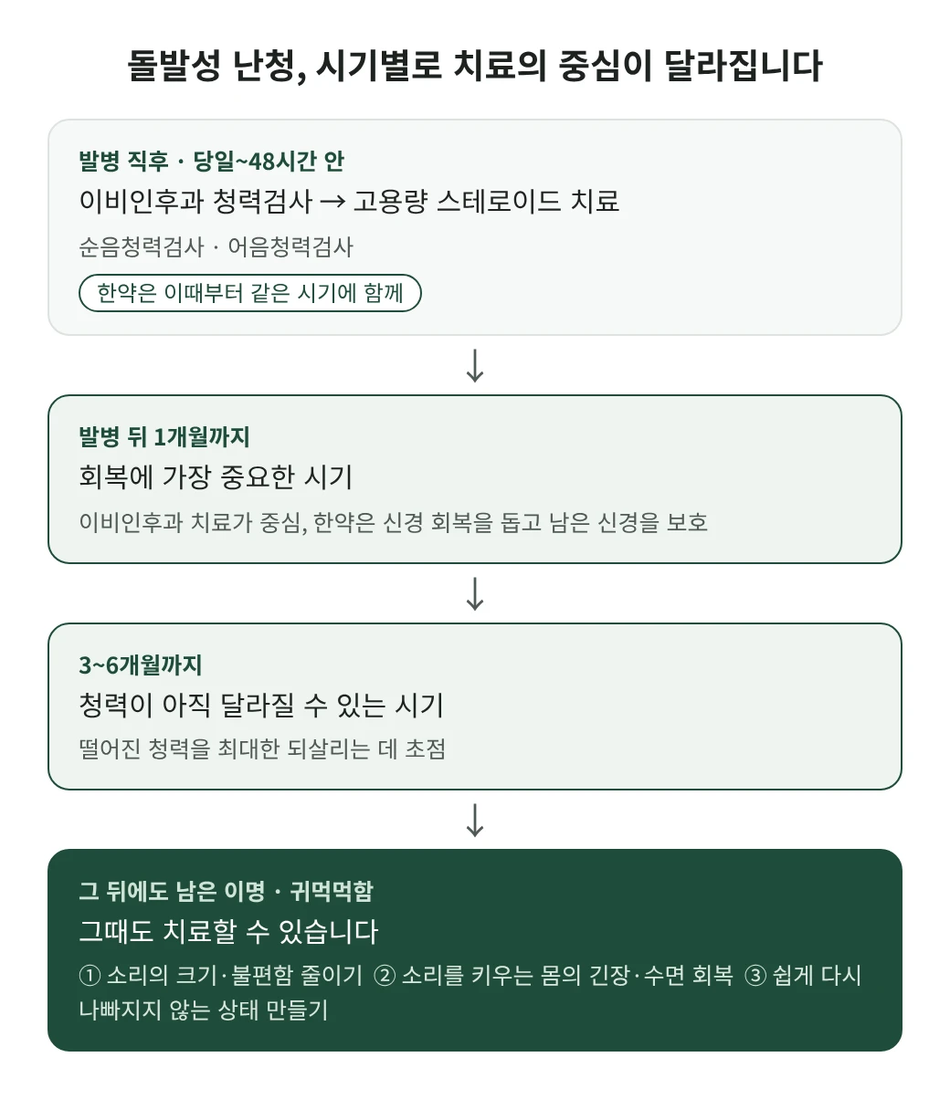
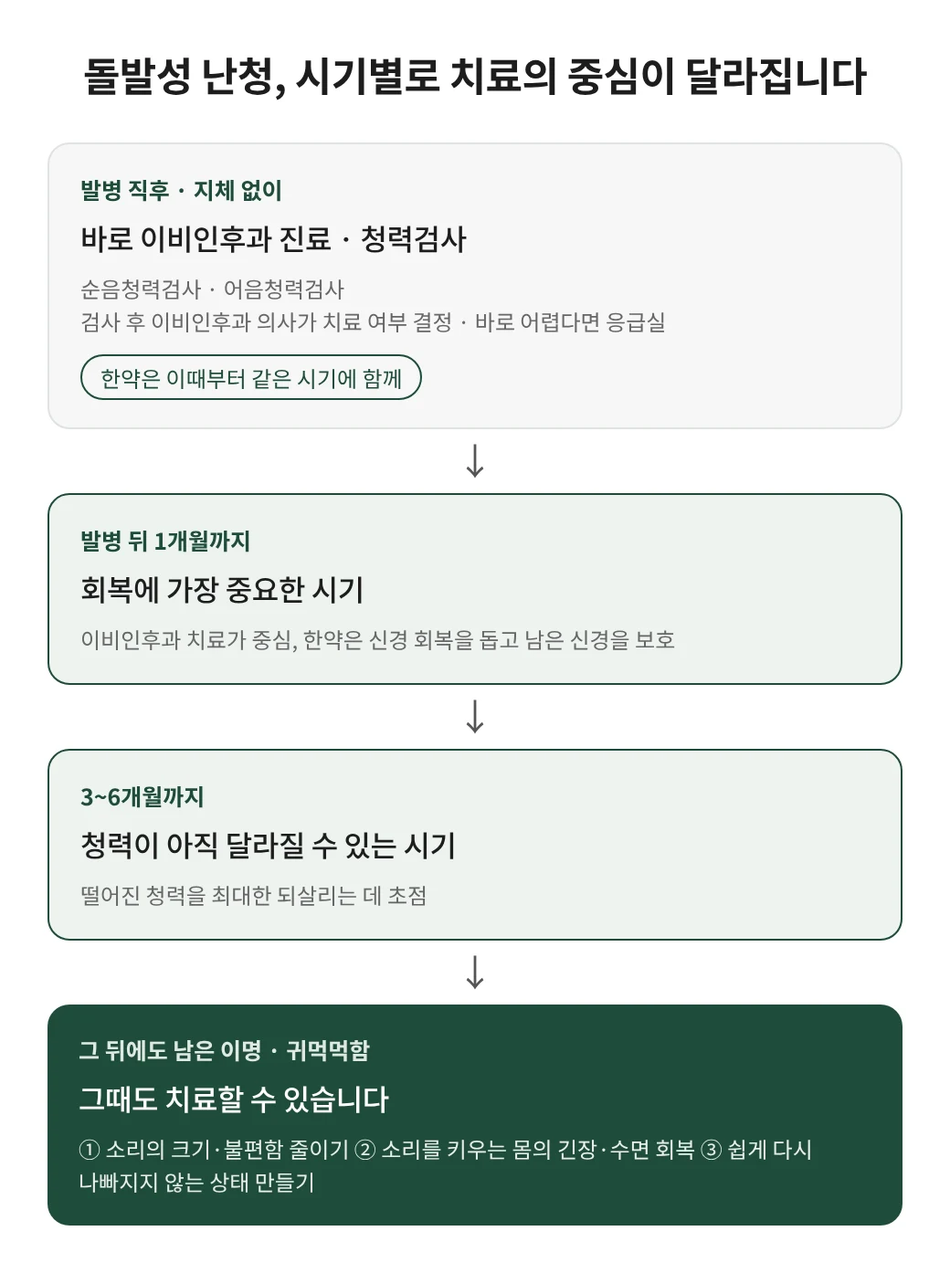
돌발성 난청 의심 시 진료 시기 안내 고치기: '24~48시간' → 지체 없이 이비인후과·응급실
- 귀먹먹함 글: 원장님 문구대로 첫머리·중간 제목·본문·하단 경고 수정 (만성 귀먹먹함 설명은 그대로)
- 이명 글 12편과 site.config.json(설명·리드·FAQ 스키마, llms.txt): '당일, 늦어도 24~48시간' 표현 통일
- 스테로이드 치료를 시작하라고 단정한 곳은 '검사 후 이비인후과 의사가 치료 여부를 결정합니다'로
- 돌발성 난청 시기별 흐름도 이미지의 '당일~48시간·고용량 스테로이드' 문구도 새로 그림

Claude-Session: https://claude.ai/code/session_0125nJSLNWcC8iU5xQ3QMtFV

diff --git a/src/pages/tinnitus/after-sudden-hearing-loss.html b/src/pages/tinnitus/after-sudden-hearing-loss.html
@@ -2,7 +2,7 @@
     <h2 class="section-title">혹시 이런 귀 증상을 겪고 계신가요?</h2>
     <ul class="checklist">
       <li>어느 날 갑자기 한쪽 귀가 잘 안 들리고 삐- 소리가 나기 시작했다</li>
-      <li>한쪽 귀가 하루 넘게 꽉 막힌 듯 먹먹하다</li>
+      <li>한쪽 귀가 갑자기 꽉 막힌 듯 먹먹해졌다</li>
       <li>이비인후과에서 돌발성 난청 진단을 받고 스테로이드를 먹고 있다</li>
       <li>고막주사까지 맞았는데 이명과 먹먹함이 남아 있다</li>
       <li>발병 전 큰 스트레스나 쌓인 피로, 잠을 못 자는 날이 이어졌다</li>
@@ -27,7 +27,7 @@
   <section class="section">
     <h2 class="section-title">13년째 이명·돌발성 난청을 진료하며 지켜본 답</h2>
     <div class="prose">
-      <p><strong>돌발성 난청은 당일 이비인후과 스테로이드 치료가 먼저이고, 한약은 그 치료를 끝낸 뒤가 아니라 같은 시기부터 함께할 수 있습니다. 염증을 끄는 치료와, 불이 난 원인을 다스리고 상한 곳을 회복시키는 치료는 함께 가야 합니다.</strong></p>
+      <p><strong>돌발성 난청이 의심되면 바로 이비인후과 진료와 청력검사가 먼저이고, 한약은 그 치료를 끝낸 뒤가 아니라 같은 시기부터 함께할 수 있습니다. 염증을 끄는 치료와, 불이 난 원인을 다스리고 상한 곳을 회복시키는 치료는 함께 가야 합니다.</strong></p>
       <p>저는 2014년부터 이명과 귀먹먹함, 돌발성 난청을 진료해 왔습니다. 돌발성 난청은 큰 스트레스와 쌓인 피로, 수면 장애가 이어지다 청신경에 갑자기 염증이 생기는 병입니다. 그래서 귀 상태뿐 아니라 발병 전 상황과 스트레스, 잠, 피로까지 함께 보고 자율신경의 균형을 되찾도록 치료합니다.</p>
       <figure class="figure" style="max-width:480px"><img src="/images/columns/clinic-decoction-machines.webp" width="743" height="542" loading="lazy" alt="구월경희한의원 원내 탕전실에 한약을 달이는 탕전기들이 나란히 놓여 있는 사진"><figcaption>한약은 외부에 맡기지 않고 원내 탕전실에서 직접 달여, 이비인후과 치료와 같은 시기부터 함께 드실 수 있게 준비합니다.</figcaption></figure>
       <p>이비인후과 초기 치료와 한약을 함께해 좋은 결과를 본 사례들이 제 진료실에 있습니다. 한약은 언제부터 함께할 수 있는지, 왜 이명이 남는지, 한 달이 지났다면 늦은 것인지 차례로 말씀드리겠습니다.</p>
@@ -38,7 +38,7 @@
     <h2 class="section-title">돌발성 난청 치료 중인데, 한약은 언제부터 함께할 수 있나요?</h2>
     <div class="prose">
       <p><strong>이비인후과에서 스테로이드 치료를 시작하는 바로 그 시기부터 함께할 수 있습니다. 스테로이드를 다 끝낸 뒤에 받는 치료가 아니라, 같은 시기에 나란히 가는 치료로 보시면 됩니다.</strong></p>
-      <p>순서는 분명합니다. 갑자기 한쪽 귀가 먹먹하고 잘 안 들리면 당일, 늦어도 24~48시간 안에 이비인후과에서 청력검사(순음청력검사·어음청력검사)를 받고 고용량 스테로이드 치료를 시작하셔야 합니다. 돌발성 난청은 시간이 생명이라 초기에 치료를 시작할수록 회복 가능성이 높습니다.</p>
+      <p>순서는 분명합니다. 갑자기 청력이 떨어졌거나 한쪽 귀가 갑자기 먹먹해져 청력 저하가 의심되면, 하루를 기다리지 말고 바로 이비인후과 진료와 청력검사(순음청력검사·어음청력검사)를 받으세요. 바로 진료받기 어렵다면 응급실로 가세요. 스테로이드 같은 치료를 할지는 검사 후 이비인후과 의사가 결정합니다. 돌발성 난청은 시간이 생명이라 빨리 진료받을수록 회복 가능성이 높습니다.</p>
       <p>한약은 이 치료를 대신하지 않고 곁에서 돕습니다. 손상된 신경이 회복되도록 돕고 남아 있는 신경을 보호하는 것이 목표입니다.</p>
     </div>
   </section>
@@ -66,7 +66,7 @@
         <li><strong>3~6개월까지</strong> — 청력이 아직 달라질 수 있는 시기라, 떨어진 청력을 최대한 되살리는 데 초점을 둡니다.</li>
         <li><strong>그 뒤에도 남은 이명</strong> — 이명의 크기와 불편함을 줄이고, 이명을 키우는 몸의 문제를 함께 회복하고, 치료를 마친 뒤 쉽게 다시 나빠지지 않는 상태를 만드는 것을 목표로 합니다.</li>
       </ol>
-      <figure class="figure"><img src="/images/columns/tinnitus-sudden-hearing-loss-timeline.webp" width="1040" height="1204" loading="lazy" alt="돌발성 난청 시기별 치료 흐름도. 발병 직후 당일에서 48시간 안에 이비인후과 청력검사와 고용량 스테로이드 치료를 시작하고 한약은 이때부터 같은 시기에 함께한다. 발병 뒤 1개월까지는 회복에 가장 중요한 시기, 3~6개월까지는 청력이 아직 달라질 수 있는 시기, 그 뒤에도 남은 이명과 귀먹먹함은 소리 크기 줄이기, 몸의 긴장과 수면 회복, 재발하지 않는 상태 만들기를 목표로 치료할 수 있다."><figcaption>돌발성 난청은 시기에 따라 치료의 중심이 달라집니다.</figcaption></figure>
+      <figure class="figure"><img src="/images/columns/tinnitus-sudden-hearing-loss-timeline.webp" width="1040" height="1394" loading="lazy" alt="돌발성 난청 시기별 치료 흐름도. 발병 직후에는 지체 없이 이비인후과 진료와 청력검사를 받고(바로 어렵다면 응급실), 검사 후 이비인후과 의사가 치료 여부를 결정하며 한약은 이때부터 같은 시기에 함께한다. 발병 뒤 1개월까지는 회복에 가장 중요한 시기, 3~6개월까지는 청력이 아직 달라질 수 있는 시기, 그 뒤에도 남은 이명과 귀먹먹함은 소리 크기 줄이기, 몸의 긴장과 수면 회복, 재발하지 않는 상태 만들기를 목표로 치료할 수 있다."><figcaption>돌발성 난청은 시기에 따라 치료의 중심이 달라집니다.</figcaption></figure>
       <p>"평생 이렇게 살아야 하나요?"라고 물으시면 저는 "지금보다 소리가 덜 들리고, 덜 먹먹하고, 더 잘 주무실 수 있는 방법은 있습니다"라고 답합니다.</p>
     </div>
   </section>
@@ -111,7 +111,7 @@
     <aside class="alert">
       <h2>한의원보다 이비인후과·응급실이 먼저인 경우</h2>
       <ul>
-        <li>갑자기 한쪽 귀가 잘 안 들리거나 먹먹해진 지 얼마 되지 않았을 때 — 당일, 늦어도 24~48시간 안에 이비인후과에서 청력검사와 초기 치료를 받으세요. 한약은 그 치료와 같은 시기에 함께할 수 있습니다.</li>
+        <li>갑자기 한쪽 귀가 잘 안 들리거나 먹먹해진 지 얼마 되지 않았을 때 — 하루를 기다리지 말고 바로 이비인후과 진료와 청력검사를 받으세요. 바로 진료받기 어렵다면 응급실로 가세요. 한약은 그 치료와 같은 시기에 함께할 수 있습니다.</li>
         <li>이명과 함께 심한 어지럼증, 구토가 시작될 때</li>
         <li>얼굴 마비, 말이 어눌해짐, 심한 두통이 함께 있을 때</li>
         <li>치료 중에 청력이 다시 떨어지는 느낌이 들 때 — 치료하던 이비인후과에서 청력검사를 다시 받아 보세요.</li>

diff --git a/src/pages/tinnitus/ear-fullness.html b/src/pages/tinnitus/ear-fullness.html
@@ -27,7 +27,7 @@
   <section class="section">
     <h2 class="section-title">13년째 귀먹먹함을 진료하며 지켜본 답</h2>
     <div class="prose">
-      <p><strong>갑자기 시작된 한쪽 귀 먹먹함이 하루 넘게 이어진다면 돌발성 난청일 수 있어 이비인후과 청력검사가 먼저입니다. 검사가 정상이고 약을 먹어도 몇 달째 그대로라면, 몸의 긴장으로 무너진 자율신경 균형과 이관 상태를 귀와 함께 봐야 합니다.</strong></p>
+      <p><strong>갑자기 청력이 떨어졌거나 한쪽 귀가 갑자기 먹먹해져 청력 저하가 의심되면, 하루를 기다리지 말고 바로 이비인후과 진료와 청력검사를 받으세요. 바로 진료받기 어렵다면 응급실로 가세요. 검사가 정상이고 약을 먹어도 몇 달째 그대로라면, 몸의 긴장으로 무너진 자율신경 균형과 이관 상태를 귀와 함께 봐야 합니다.</strong></p>
       <p>저는 2014년부터 귀먹먹함과 이명, 돌발성 난청 환자분을 진료해 왔습니다. 구조를 보는 검사에서 이상이 없는데도 먹먹함이 계속되는 분은 자율신경검사·뇌파검사로 몸의 긴장 상태를 확인하고, 이관이 막힌 쪽인지 너무 열린 쪽인지도 가려서 치료 방향을 정합니다.</p>
       <figure class="figure" style="max-width:440px"><img src="/images/columns/director-ear-13-years.webp" width="743" height="743" loading="lazy" alt="구월경희한의원 지근성 대표원장 약력 카드. 13년째 이명·귀먹먹함·메니에르병 중점 진료, 매달 귀·신경질환 진료 600명 이상. 학력 경희대학교 한의과대학 성적우수 장학생 입학, 경희대학교 한의과대학 졸업. 학회 정회원 두 곳. 2024·2025 인천시한의사회 분회장상 수상 사진."><figcaption>이명·귀먹먹함·메니에르병을 13년째 진료하고 있습니다.</figcaption></figure>
       <p>고열을 앓은 뒤 오른쪽 귀가 수건으로 막은 듯 먹먹해졌던 40대 환자분은 45일째 먹먹함과 귀를 잡아당기는 통증이 없어졌습니다(자세한 경과는 아래 치료 사례에 있습니다). 먼저 확인할 것, 검사가 정상인데 몇 달씩 먹먹한 이유, 이관이 막힌 경우와 열린 경우를 차례로 말씀드리겠습니다.</p>
@@ -35,10 +35,10 @@
   </section>
 
   <section class="section section-tint">
-    <h2 class="section-title">먹먹함이 하루 넘게 이어진다면 무엇부터 확인해야 하나요?</h2>
+    <h2 class="section-title">한쪽 귀가 갑자기 먹먹하거나 잘 안 들리면 어떻게 해야 하나요?</h2>
     <div class="prose">
-      <p><strong>갑자기 시작된 한쪽 귀 먹먹함이 하루 넘게 이어진다면 먼저 이비인후과에서 청력검사를 받으세요. 낮은 음역의 청력이 떨어진 돌발성 난청일 수 있기 때문입니다.</strong></p>
-      <p>돌발성 난청은 당일, 늦어도 24~48시간 안에 청력검사(순음청력검사·어음청력검사)와 고용량 스테로이드 치료를 시작하는 것이 먼저입니다. 한약은 그 치료와 같은 시기부터 함께할 수 있습니다. 시기별 치료 방향은 <a href="/tinnitus/after-sudden-hearing-loss/">돌발성 난청 뒤 남은 이명, 한약은 언제 함께하나</a>에 정리해 두었습니다.</p>
+      <p><strong>갑자기 청력이 떨어졌거나 한쪽 귀가 갑자기 먹먹해져 청력 저하가 의심되면, 하루를 기다리지 말고 바로 이비인후과 진료와 청력검사를 받으세요. 바로 진료받기 어렵다면 응급실로 가세요. 낮은 음역의 청력이 떨어진 돌발성 난청일 수 있기 때문입니다.</strong></p>
+      <p>청력검사는 순음청력검사·어음청력검사로 하고, 검사 후 이비인후과 의사가 치료 여부를 결정합니다. 한약은 그 치료와 같은 시기부터 함께할 수 있습니다. 시기별 치료 방향은 <a href="/tinnitus/after-sudden-hearing-loss/">돌발성 난청 뒤 남은 이명, 한약은 언제 함께하나</a>에 정리해 두었습니다.</p>
       <p>고개를 돌리지 않았는데도 TV를 보거나 일하다가 빙글빙글 도는 어지럼이 찾아오고, 그때마다 귀가 먹먹하다면 메니에르병을 의심해 봐야 합니다. 어지럼이 함께 있다면 <a href="/dizziness/">어지럼증 진료 안내</a>도 참고해 주세요.</p>
     </div>
   </section>
@@ -110,7 +110,7 @@
     <aside class="alert">
       <h2>한의원보다 이비인후과·응급실이 먼저인 경우</h2>
       <ul>
-        <li>갑자기 한쪽 귀가 먹먹하거나 잘 안 들린 지 얼마 되지 않았을 때 — 당일, 늦어도 24~48시간 안에 이비인후과에서 청력검사를 받으세요.</li>
+        <li>갑자기 청력이 떨어졌거나 한쪽 귀가 갑자기 먹먹해져 청력 저하가 의심될 때 — 하루를 기다리지 말고 바로 이비인후과 진료와 청력검사를 받으세요. 바로 진료받기 어렵다면 응급실로 가세요.</li>
         <li>먹먹함과 함께 심한 어지럼증, 구토가 시작될 때</li>
         <li>귀에서 고름이나 진물이 나오거나, 열과 함께 귀가 심하게 아플 때</li>
         <li>얼굴 마비, 말이 어눌해짐, 심한 두통이 함께 있을 때</li>

diff --git a/src/pages/tinnitus/noise-induced.html b/src/pages/tinnitus/noise-induced.html
@@ -15,7 +15,7 @@
         <img src="/images/columns/tinnitus-hair-cell-frequency.webp" alt="달팽이관 모식도. 입구 쪽 유모세포는 높은 소리, 안쪽 끝 유모세포는 낮은 소리를 맡으며, 입구 쪽 유모세포가 손상되면 높은 소리 청력이 떨어지고 삐 하는 이명이 생길 수 있음을 보여 주는 그림" width="743" height="668" loading="lazy">
         <figcaption>높은 소리를 맡는 달팽이관 입구 쪽 유모세포가 상하면, 그 주파수가 '삐-' 하는 이명으로 들릴 수 있습니다. (대표원장 직접 제작)</figcaption>
       </figure>
-      <p>큰 소리를 들은 뒤 한쪽 귀가 갑자기 잘 안 들리거나 꽉 막힌 듯 먹먹해졌다면 시간이 가장 중요합니다. 당일, 늦어도 24~48시간 안에 이비인후과에서 청력검사와 초기 치료를 받으세요. 한약은 그 치료와 같은 시기에 함께할 수 있습니다. 자세한 내용은 <a href="/tinnitus/after-sudden-hearing-loss/">돌발성 난청 뒤 남은 이명</a>에 있습니다.</p>
+      <p>큰 소리를 들은 뒤 한쪽 귀가 갑자기 잘 안 들리거나 꽉 막힌 듯 먹먹해졌다면 시간이 가장 중요합니다. 하루를 기다리지 말고 바로 이비인후과 진료와 청력검사를 받으세요. 바로 진료받기 어렵다면 응급실로 가세요. 한약은 그 치료와 같은 시기에 함께할 수 있습니다. 자세한 내용은 <a href="/tinnitus/after-sudden-hearing-loss/">돌발성 난청 뒤 남은 이명</a>에 있습니다.</p>
       <p>생긴 지 6개월이 지난 소음성 난청과 이명은 처음부터 솔직하게 말씀드립니다. 학회 보고로도 돌발성 난청에 비해 회복률이 절반 정도라, 소리를 완전히 없애기보다 크기와 불편, 잠을 줄이는 것을 목표로 잡습니다. 떨어진 청력이 돌아올 수 있는지는 <a href="/tinnitus/with-hearing-loss/">이명과 난청이 같이 있다면, 청력도 돌아올 수 있을까요?</a>에 따로 적었습니다.</p>
     </div>
   </section>
@@ -82,7 +82,7 @@
     <aside class="alert">
       <h2>한의원보다 이비인후과·응급실이 먼저인 경우</h2>
       <ul>
-        <li>큰 소리를 들은 뒤 한쪽 귀가 갑자기 잘 안 들리거나 먹먹해졌을 때 — 당일, 늦어도 24~48시간 안에 이비인후과에서 청력검사와 초기 치료를 받으세요. 한약은 그 치료와 함께할 수 있습니다.</li>
+        <li>큰 소리를 들은 뒤 한쪽 귀가 갑자기 잘 안 들리거나 먹먹해졌을 때 — 하루를 기다리지 말고 바로 이비인후과 진료와 청력검사를 받으세요. 바로 진료받기 어렵다면 응급실로 가세요. 한약은 그 치료와 함께할 수 있습니다.</li>
         <li>원래 있던 난청이 짧은 기간에 눈에 띄게 더 나빠졌을 때, 한쪽에서만 이명이 계속되거나 심장 박동에 맞춰 쿵쿵 울릴 때 — 이비인후과 정밀검사를 먼저 받아 보세요. <a href="/tinnitus/one-sided/">한쪽 귀에서만 들리는 이명</a>에 자세히 적었습니다.</li>
         <li>이명과 함께 심한 어지럼과 구토가 시작됐을 때, 얼굴 마비·말이 어눌해짐·한쪽 팔다리에 힘이 빠짐·심한 두통이 함께 있을 때 — 바로 응급실로 가세요.</li>
       </ul>

diff --git a/src/pages/tinnitus/where-to-go.html b/src/pages/tinnitus/where-to-go.html
@@ -11,7 +11,7 @@
     <h2 class="section-title">이명이 처음 생겼다면 어디부터 가야 하나요?</h2>
     <div class="prose">
       <p><strong>이비인후과에서 청력검사부터 받으세요. 이명이 혼자 온 것인지, 돌발성 난청처럼 서둘러 치료해야 하는 병의 신호인지를 먼저 가려야 하기 때문입니다.</strong></p>
-      <p>청신경에 생긴 종양, 중이염, 경동맥이 좁아져 생기는 박동성 이명처럼 원인이 분명한 이명은 그 원인을 치료하는 것이 먼저입니다. 특히 한쪽 귀가 갑자기 잘 안 들리면서 이명이 생겼다면 당일, 늦어도 24~48시간 안에 이비인후과 진료를 받으셔야 합니다. 한약은 그 치료와 같은 시기에 함께할 수 있으며, 자세한 내용은 <a href="/tinnitus/after-sudden-hearing-loss/">돌발성 난청 뒤 남은 이명</a>에 있습니다.</p>
+      <p>청신경에 생긴 종양, 중이염, 경동맥이 좁아져 생기는 박동성 이명처럼 원인이 분명한 이명은 그 원인을 치료하는 것이 먼저입니다. 특히 한쪽 귀가 갑자기 잘 안 들리면서 이명이 생겼다면 하루를 기다리지 말고 바로 이비인후과 진료와 청력검사를 받으셔야 합니다. 바로 진료받기 어렵다면 응급실로 가세요. 한약은 그 치료와 같은 시기에 함께할 수 있으며, 자세한 내용은 <a href="/tinnitus/after-sudden-hearing-loss/">돌발성 난청 뒤 남은 이명</a>에 있습니다.</p>
       <figure class="figure" style="max-width:520px">
         <img src="/images/columns/tinnitus-audiogram-example.webp" alt="청력검사 결과 예시 그래프. 20dB까지가 정상 범위이고, 높은 소리 구간의 청력이 떨어지면 삐 하는 높은 이명이 생길 수 있음을 표시" width="743" height="672" loading="lazy">
         <figcaption>청력검사 결과지는 이명이 혼자 온 것인지, 청력 저하와 함께 온 것인지를 가르는 첫 자료입니다. (대표원장 직접 제작)</figcaption>
@@ -84,7 +84,7 @@
     <aside class="alert">
       <h2>한의원보다 이비인후과·응급실이 먼저인 경우</h2>
       <ul>
-        <li>한쪽 귀가 갑자기 잘 안 들리거나 꽉 막힌 듯 먹먹해졌을 때 — 당일, 늦어도 24~48시간 안에 이비인후과에서 청력검사와 초기 치료를 받으세요. 한약은 그 치료와 함께할 수 있습니다.</li>
+        <li>한쪽 귀가 갑자기 잘 안 들리거나 꽉 막힌 듯 먹먹해졌을 때 — 하루를 기다리지 말고 바로 이비인후과 진료와 청력검사를 받으세요. 바로 진료받기 어렵다면 응급실로 가세요. 한약은 그 치료와 함께할 수 있습니다.</li>
         <li>한쪽에서만 이명이 계속되거나 그쪽 청력이 떨어질 때, 심장 박동에 맞춰 쿵쿵 울릴 때 — 이비인후과 정밀검사를 먼저 받아 보세요.</li>
         <li>귀에서 고름이나 진물이 나오거나 귀가 아플 때 — 이비인후과 진료가 먼저입니다.</li>
         <li>이명과 함께 심한 어지럼과 구토가 시작됐을 때, 얼굴 마비·말이 어눌해짐·한쪽 팔다리에 힘이 빠짐·심한 두통이 함께 있을 때 — 바로 응급실로 가세요.</li>

diff --git a/src/pages/tinnitus/with-hearing-loss.html b/src/pages/tinnitus/with-hearing-loss.html
@@ -25,7 +25,7 @@
     <div class="prose">
       <p><strong>난청의 종류와 시간이 얼마나 지났는지에 따라 다릅니다. 갑자기 생긴 난청은 초기에 치료할수록 회복 가능성이 높고, 6개월 넘게 지난 소음성 난청은 완전히 되돌리기 어려울 수 있어 처음부터 그렇게 말씀드립니다.</strong></p>
       <ul class="points">
-        <li><strong>갑자기 한쪽 귀가 안 들리게 된 경우(돌발성 난청)</strong> — 시간이 가장 중요합니다. 당일, 늦어도 24~48시간 안에 이비인후과에서 청력검사와 스테로이드 치료를 시작하세요. 한약은 그 치료가 끝난 뒤가 아니라 같은 시기에 함께할 수 있습니다. 자세한 내용은 <a href="/tinnitus/after-sudden-hearing-loss/">돌발성 난청 뒤 남은 이명</a>에 있습니다.</li>
+        <li><strong>갑자기 한쪽 귀가 안 들리게 된 경우(돌발성 난청)</strong> — 시간이 가장 중요합니다. 하루를 기다리지 말고 바로 이비인후과 진료와 청력검사를 받으세요. 바로 진료받기 어렵다면 응급실로 가세요. 검사 후 이비인후과 의사가 치료 여부를 결정합니다. 한약은 그 치료가 끝난 뒤가 아니라 같은 시기에 함께할 수 있습니다. 자세한 내용은 <a href="/tinnitus/after-sudden-hearing-loss/">돌발성 난청 뒤 남은 이명</a>에 있습니다.</li>
         <li><strong>소음에 오래 노출돼 생긴 난청(소음성 난청)</strong> — 원인이 되는 소음을 줄이는 것이 먼저입니다. 생긴 지 6개월이 지난 소음성 난청과 이명은 완전히 없애기보다 증상을 줄이는 것을 목표로 잡습니다.</li>
         <li><strong>청력검사에서 '정상'이지만 20dB 가까이 나온 경우</strong> — 정상 범위 안이어도 경도 난청과의 경계라, 조금 떨어진 청력 때문에 이명이 생겼을 수 있습니다.</li>
       </ul>
@@ -95,7 +95,7 @@
     <aside class="alert">
       <h2>한의원보다 이비인후과·응급실이 먼저인 경우</h2>
       <ul>
-        <li>한쪽 귀가 갑자기 잘 안 들리거나 먹먹해졌을 때 — 돌발성 난청일 수 있어 당일, 늦어도 24~48시간 안에 이비인후과에서 청력검사와 초기 치료를 받으세요. 한약은 그 치료와 함께할 수 있습니다.</li>
+        <li>한쪽 귀가 갑자기 잘 안 들리거나 먹먹해졌을 때 — 돌발성 난청일 수 있어 하루를 기다리지 말고 바로 이비인후과 진료와 청력검사를 받으세요. 바로 진료받기 어렵다면 응급실로 가세요. 한약은 그 치료와 함께할 수 있습니다.</li>
         <li>원래 있던 난청이 짧은 기간에 눈에 띄게 더 나빠졌을 때, 한쪽에서만 이명이 계속되거나 심장 박동에 맞춰 쿵쿵 울릴 때 — 이비인후과 정밀검사를 먼저 받아 보세요. <a href="/tinnitus/one-sided/">한쪽 귀에서만 들리는 이명</a>에 자세히 적었습니다.</li>
         <li>이명과 함께 심한 어지럼과 구토가 시작됐을 때, 얼굴 마비·말이 어눌해짐·심한 두통이 함께 있을 때</li>
       </ul>

diff --git a/src/pages/tinnitus/after-illness.html b/src/pages/tinnitus/after-illness.html
@@ -74,7 +74,7 @@
     <div class="prose">
       <p><strong>돌발성 난청일 수 있으니 그날 바로 이비인후과에서 청력검사와 치료를 받으세요. 이명보다 청력이 먼저입니다.</strong></p>
       <p>돌발성 난청은 큰 스트레스와 쌓인 피로, 수면 장애가 이어지다 청신경에 갑자기 염증이 생기는 병이라, 청력 저하와 함께 귀먹먹함과 이명이 같이 옵니다. 이비인후과의 스테로이드 치료는 불난 곳의 불을 끄는 꼭 필요한 치료이고, 한약은 그 시기부터 함께해 불이 난 원인과 상한 곳의 회복을 돕습니다.</p>
-      <figure class="figure" style="max-width:480px"><img src="/images/columns/tinnitus-sudden-hearing-loss-timeline.webp" width="1040" height="1204" loading="lazy" alt="돌발성 난청 시기별 치료 흐름도. 발병 직후 당일에서 48시간 안에 이비인후과 청력검사와 고용량 스테로이드 치료를 시작하고 한약은 이때부터 같은 시기에 함께한다. 발병 뒤 1개월까지는 회복에 가장 중요한 시기, 3~6개월까지는 청력이 아직 달라질 수 있는 시기, 그 뒤에도 남은 이명과 귀먹먹함을 치료하는 시기로 이어진다."><figcaption>돌발성 난청은 시기마다 할 일이 다릅니다. 당일 이비인후과 치료가 먼저이고, 한약은 그때부터 함께할 수 있습니다.</figcaption></figure>
+      <figure class="figure" style="max-width:480px"><img src="/images/columns/tinnitus-sudden-hearing-loss-timeline.webp" width="1040" height="1394" loading="lazy" alt="돌발성 난청 시기별 치료 흐름도. 발병 직후에는 지체 없이 이비인후과 진료와 청력검사를 받고(바로 어렵다면 응급실), 검사 후 이비인후과 의사가 치료 여부를 결정하며 한약은 이때부터 같은 시기에 함께한다. 발병 뒤 1개월까지는 회복에 가장 중요한 시기, 3~6개월까지는 청력이 아직 달라질 수 있는 시기, 그 뒤에도 남은 이명과 귀먹먹함을 치료하는 시기로 이어진다."><figcaption>돌발성 난청은 시기마다 할 일이 다릅니다. 바로 이비인후과 진료와 청력검사가 먼저이고, 한약은 그때부터 함께할 수 있습니다.</figcaption></figure>
       <p>자세한 내용은 <a href="/tinnitus/after-sudden-hearing-loss/">돌발성 난청 뒤 남은 이명, 한약은 언제 함께할 수 있을까요?</a>에 있습니다.</p>
     </div>
   </section>

diff --git a/src/pages/tinnitus/elderly.html b/src/pages/tinnitus/elderly.html
@@ -91,7 +91,7 @@
     <aside class="alert">
       <h2>한의원보다 이비인후과·응급실이 먼저인 경우</h2>
       <ul>
-        <li>한쪽 귀가 갑자기 잘 안 들리거나 먹먹해졌을 때 — 돌발성 난청일 수 있어 당일, 늦어도 24~48시간 안에 이비인후과에서 청력검사와 초기 치료를 받으세요. 한약은 그 치료와 함께할 수 있습니다. <a href="/tinnitus/after-sudden-hearing-loss/">돌발성 난청 뒤 남은 이명</a>을 참고해 주세요.</li>
+        <li>한쪽 귀가 갑자기 잘 안 들리거나 먹먹해졌을 때 — 돌발성 난청일 수 있어 하루를 기다리지 말고 바로 이비인후과 진료와 청력검사를 받으세요. 바로 진료받기 어렵다면 응급실로 가세요. 한약은 그 치료와 함께할 수 있습니다. <a href="/tinnitus/after-sudden-hearing-loss/">돌발성 난청 뒤 남은 이명</a>을 참고해 주세요.</li>
         <li>한쪽에서만 이명이 계속되거나 그쪽 청력이 떨어질 때, 심장 박동에 맞춰 쿵쿵 울릴 때 — 이비인후과 정밀검사를 먼저 받아 보세요. <a href="/tinnitus/one-sided/">한쪽 귀에서만 들리는 이명</a>에 자세히 적었습니다.</li>
         <li>이명과 함께 심한 어지럼과 구토가 시작됐을 때, 얼굴 마비·말이 어눌해짐·한쪽 팔다리에 힘이 빠짐·심한 두통이 함께 있을 때 — 바로 응급실로 가세요.</li>
       </ul>

diff --git a/src/pages/tinnitus/first-visit.html b/src/pages/tinnitus/first-visit.html
@@ -97,7 +97,7 @@
     <aside class="alert">
       <h2>한의원 초진보다 이비인후과·응급실이 먼저인 경우</h2>
       <ul>
-        <li>한쪽 귀가 갑자기 잘 안 들리거나 먹먹해졌을 때 — 돌발성 난청일 수 있어 당일, 늦어도 24~48시간 안에 이비인후과에서 청력검사와 초기 치료를 받으세요. 한약은 그 치료와 함께할 수 있습니다. <a href="/tinnitus/after-sudden-hearing-loss/">돌발성 난청 뒤 남은 이명</a>을 참고해 주세요.</li>
+        <li>한쪽 귀가 갑자기 잘 안 들리거나 먹먹해졌을 때 — 돌발성 난청일 수 있어 하루를 기다리지 말고 바로 이비인후과 진료와 청력검사를 받으세요. 바로 진료받기 어렵다면 응급실로 가세요. 한약은 그 치료와 함께할 수 있습니다. <a href="/tinnitus/after-sudden-hearing-loss/">돌발성 난청 뒤 남은 이명</a>을 참고해 주세요.</li>
         <li>한쪽에서만 이명이 계속되거나 그쪽 청력이 떨어질 때, 심장 박동에 맞춰 쿵쿵 울릴 때 — 이비인후과 정밀검사를 먼저 받아 보세요. <a href="/tinnitus/one-sided/">한쪽 귀에서만 들리는 이명</a>에 자세히 적었습니다.</li>
         <li>이명과 함께 심한 어지럼과 구토가 시작됐을 때, 얼굴 마비·말이 어눌해짐·심한 두통이 함께 있을 때</li>
       </ul>

diff --git a/src/pages/tinnitus/with-dizziness.html b/src/pages/tinnitus/with-dizziness.html
@@ -92,7 +92,7 @@
     <aside class="alert">
       <h2>한의원보다 이비인후과·응급실이 먼저인 경우</h2>
       <ul>
-        <li>한쪽 귀가 갑자기 잘 안 들리거나 먹먹해지면서 이명·어지럼이 시작됐을 때 — 돌발성 난청일 수 있어 당일, 늦어도 24~48시간 안에 이비인후과에서 청력검사와 초기 치료를 받으세요.</li>
+        <li>한쪽 귀가 갑자기 잘 안 들리거나 먹먹해지면서 이명·어지럼이 시작됐을 때 — 돌발성 난청일 수 있어 하루를 기다리지 말고 바로 이비인후과 진료와 청력검사를 받으세요. 바로 진료받기 어렵다면 응급실로 가세요.</li>
         <li>심한 어지럼과 구토가 처음 시작돼 가라앉지 않을 때</li>
         <li>어지럼과 함께 얼굴 마비, 말이 어눌해짐, 팔다리 힘 빠짐, 물체가 둘로 보임, 걷기 어려움, 심한 두통이 있을 때 — 뇌 쪽 원인일 수 있어 바로 응급실로 가셔야 합니다.</li>
         <li>어지럼이 반복되면서 한쪽 청력이 점점 떨어질 때 — 이비인후과 정밀검사를 먼저 받아 보세요.</li>

diff --git a/src/pages/tinnitus/one-sided.html b/src/pages/tinnitus/one-sided.html
@@ -80,7 +80,7 @@
     <aside class="alert">
       <h2>한의원보다 이비인후과·응급실이 먼저인 경우</h2>
       <ul>
-        <li>한쪽 귀가 갑자기 잘 안 들리거나 먹먹해졌을 때 — 돌발성 난청일 수 있어 당일, 늦어도 24~48시간 안에 이비인후과에서 청력검사와 초기 치료를 받으세요. 한약은 그 치료와 같은 시기에 함께할 수 있습니다.</li>
+        <li>한쪽 귀가 갑자기 잘 안 들리거나 먹먹해졌을 때 — 돌발성 난청일 수 있어 하루를 기다리지 말고 바로 이비인후과 진료와 청력검사를 받으세요. 바로 진료받기 어렵다면 응급실로 가세요. 한약은 그 치료와 같은 시기에 함께할 수 있습니다.</li>
         <li>한쪽 이명과 함께 그쪽 청력이 점점 떨어질 때 — 이비인후과에서 정밀검사를 먼저 받아 보세요.</li>
         <li>심장 박동에 맞춰 쿵쿵 울리는 소리가 한쪽에서 계속될 때 — 혈관 쪽 원인을 먼저 확인해야 합니다.</li>
         <li>이명과 함께 심한 어지럼증, 구토가 시작될 때</li>

diff --git a/src/pages/tinnitus/with-headache.html b/src/pages/tinnitus/with-headache.html
@@ -91,7 +91,7 @@
       <ul>
         <li>갑자기 생긴 극심한 두통, 얼굴 마비·말이 어눌해짐·한쪽 팔다리에 힘이 빠짐이 함께 있을 때 — 바로 응급실로 가세요.</li>
         <li>이명과 함께 심한 어지럼과 구토가 시작됐을 때 — 바로 응급실로 가세요.</li>
-        <li>한쪽 귀가 갑자기 잘 안 들리거나 꽉 막힌 듯 먹먹해졌을 때 — 당일, 늦어도 24~48시간 안에 이비인후과에서 청력검사와 초기 치료를 받으세요.</li>
+        <li>한쪽 귀가 갑자기 잘 안 들리거나 꽉 막힌 듯 먹먹해졌을 때 — 하루를 기다리지 말고 바로 이비인후과 진료와 청력검사를 받으세요. 바로 진료받기 어렵다면 응급실로 가세요.</li>
         <li>심장 박동에 맞춰 쿵쿵 울리는 이명이 한쪽에서 계속될 때 — 이비인후과 정밀검사를 먼저 받아 보세요.</li>
       </ul>
       <p>드시던 두통약과 이비인후과 약은 임의로 끊지 마세요.</p>

diff --git a/src/pages/tinnitus/hyperacusis.html b/src/pages/tinnitus/hyperacusis.html
@@ -107,7 +107,7 @@
     <aside class="alert">
       <h2>한의원보다 이비인후과·응급실이 먼저인 경우</h2>
       <ul>
-        <li>갑자기 한쪽 귀가 잘 안 들리거나 먹먹해진 지 얼마 되지 않았을 때 — 당일, 늦어도 24~48시간 안에 이비인후과에서 청력검사를 받으세요.</li>
+        <li>갑자기 한쪽 귀가 잘 안 들리거나 먹먹해진 지 얼마 되지 않았을 때 — 하루를 기다리지 말고 바로 이비인후과 진료와 청력검사를 받으세요. 바로 진료받기 어렵다면 응급실로 가세요.</li>
         <li>귀 통증과 함께 열이 나거나 귀에서 고름·진물이 나올 때</li>
         <li>심한 어지럼증, 구토가 함께 시작될 때</li>
         <li>얼굴 마비, 말이 어눌해짐, 심한 두통이 함께 있을 때</li>
